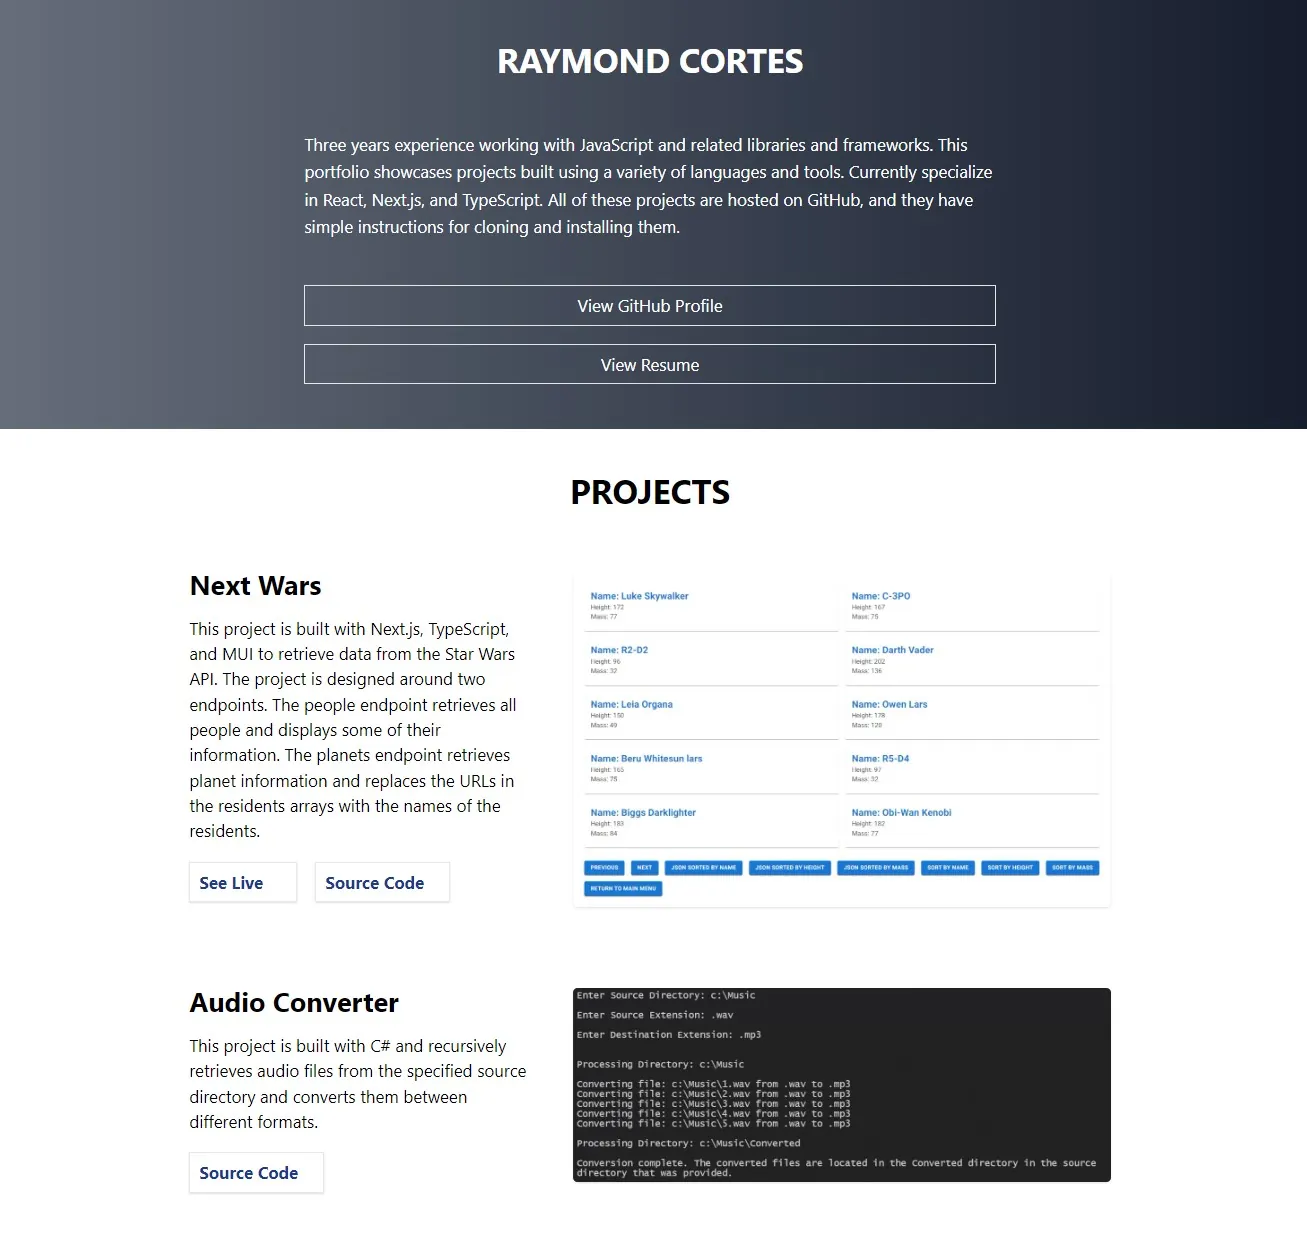
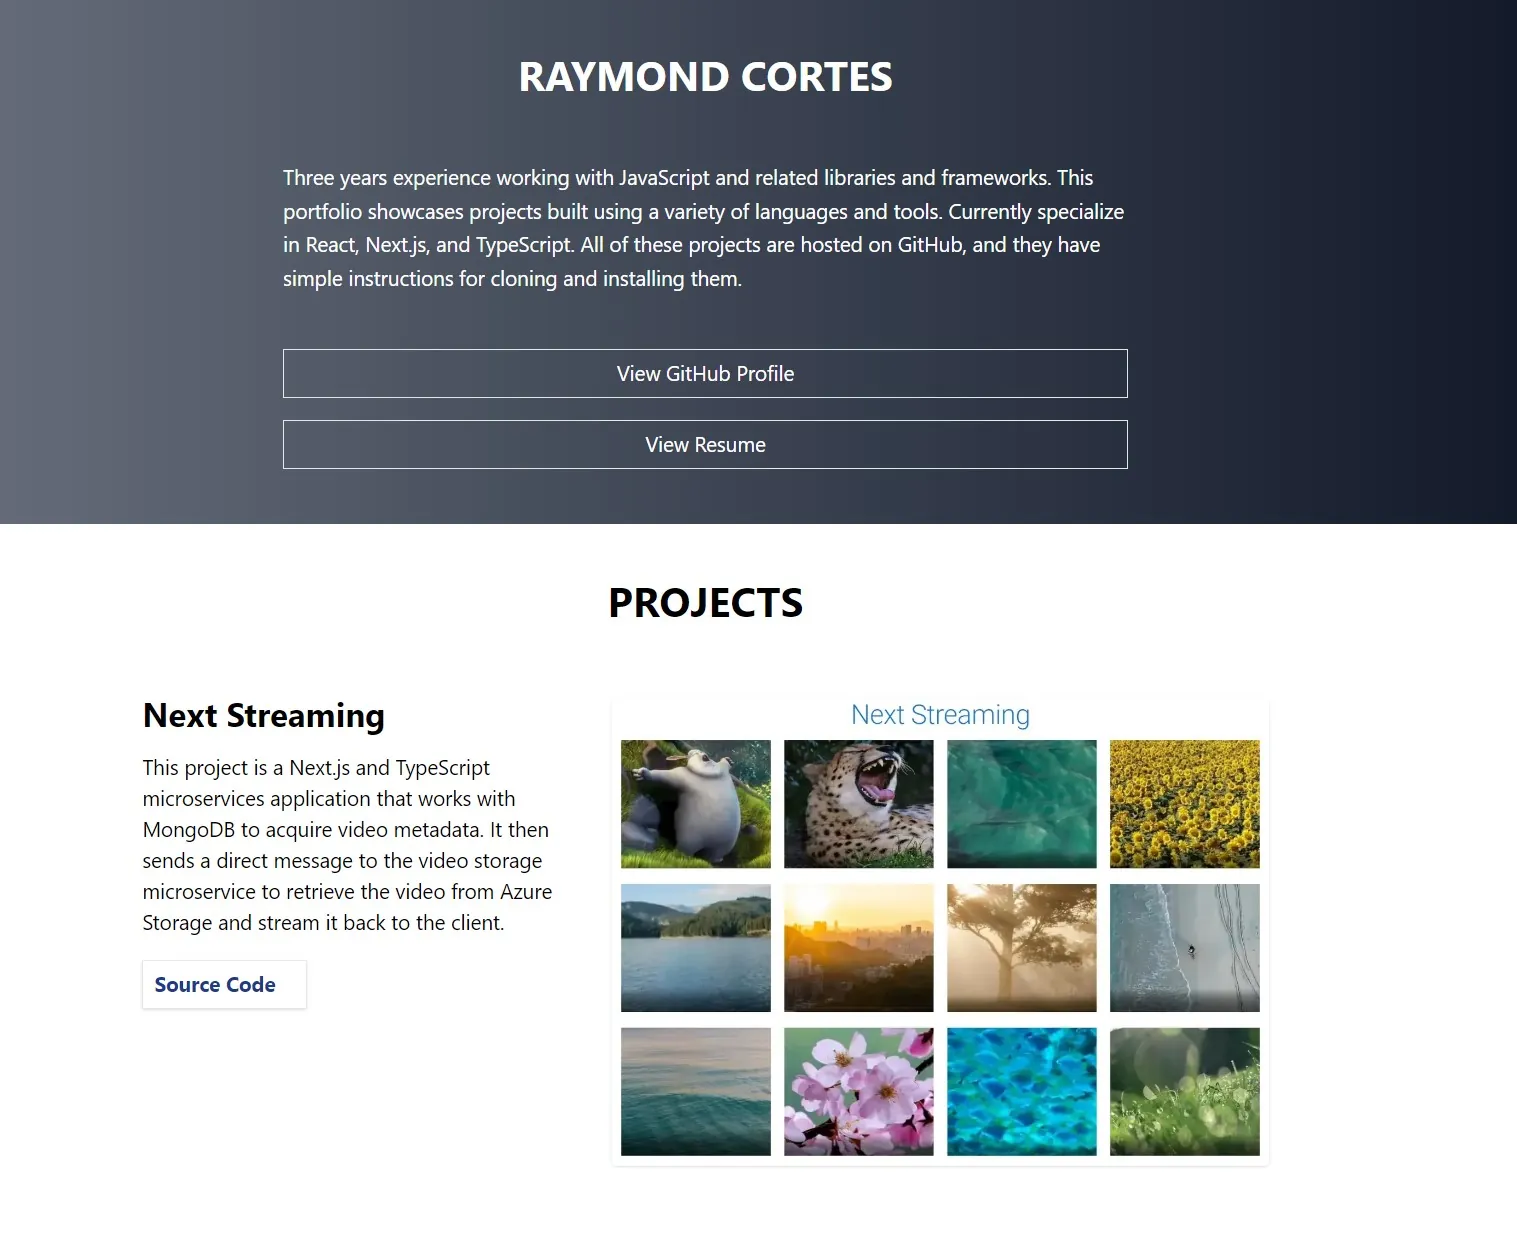
add next streaming project and update project screenshot

Changed region(s): [[0.0918, 0.4604, 0.8569, 0.9822], [0.1836, 0.0307, 0.7651, 0.3069], [0.0, 0.3376, 1.0, 0.4297]]

diff --git a/src/components/NextStreaming/NextStreaming.tsx b/src/components/NextStreaming/NextStreaming.tsx
@@ -1,0 +1,18 @@
+import React, { FC } from 'react';
+import { ProjectComponent } from '../ProjectComponent/ProjectComponent';
+
+const nextStreamingLarge = require('../../assets/images/next-streaming-large.webp');
+const nextStreamingMedium = require('../../assets/images/next-streaming-medium.webp');
+
+export const NextStreaming: FC = () => {
+  const nextStreamingProps = {
+    title: 'Next Streaming',
+    text: `This project is a Next.js and TypeScript microservices application that works with MongoDB to acquire video metadata. It then sends a direct message to the video storage microservice to retrieve the video from Azure Storage and stream it back to the client.`,
+    // liveAnchorHref: 'coming soon...',
+    sourceAnchorHref: 'https://github.com/xiraynedev/video-streaming',
+    imageFull: nextStreamingLarge,
+    imageMedium: nextStreamingMedium,
+  };
+
+  return <ProjectComponent packageProps={nextStreamingProps} />;
+};

diff --git a/src/components/Container/Container.tsx b/src/components/Container/Container.tsx
@@ -1,6 +1,7 @@
 import React, { useLayoutEffect } from 'react';
 import gsap from 'gsap';
 import { Header } from '../Header/Header';
+import { NextStreaming } from '../NextStreaming/NextStreaming';
 import { NextWars } from '../NextWars/NextWars';
 import { AudioConverter } from '../AudioConverter/AudioConverter';
 import { PackageSearch } from '../PackageSearch/PackageSearch';
@@ -33,6 +34,7 @@ export const Container: React.FC = () => {
       >
         PROJECTS
       </h2>
+      <NextStreaming />
       <NextWars />
       <AudioConverter />
       <PackageSearch />
